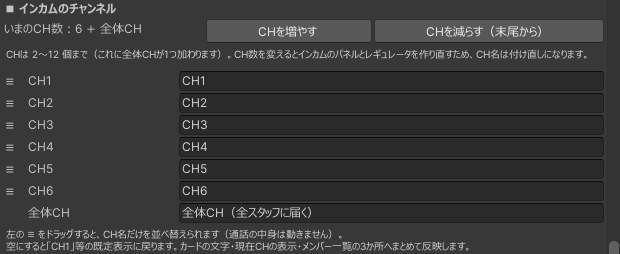
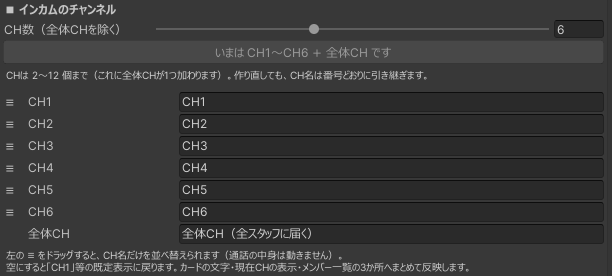
Staff Bridge System: 表記をUnity用語に合わせ、防音エリアの仕様を訂正する
製品UIに合わせて「配線→参照」「常時アクティブなオブジェクト→常に Active な
GameObject」「Sceneで選ぶ→Hierarchyで選択」等を書き換えた。

防音エリアの「中に居る人どうしは距離に関係なく聞こえる」は誤り。中どうしは
声の設定を書き換えないだけで、VRChat の既定の距離減衰は残る。あわせて編集
タブの下書き方式・CHカードのスクロール・CH名の引き継ぎを追記した。

diff --git a/docs/staff-bridge-system/howto.md b/docs/staff-bridge-system/howto.md
@@ -17,12 +17,19 @@
 | テレポート先の編集 | 行き先の差し替え・名前付け・件数の増減 |
 | プリセットメッセージ編集 | 定型文の追加・並べ替え・色付け・カテゴリ分け |
 | メニューの見た目（テーマ） | 配色テーマの選択、カスタム色、フォント、生成済みメニューへの再着色 |
-| インカムのチャンネル | 各チャンネルの表示名 |
-| 防音エリア | エリア名、聞こえる距離／聞こえなくなる距離、範囲の選択 |
+| インカムのチャンネル | CH数（2〜12）の変更、各チャンネルの表示名 |
+| 防音エリア | エリア名、外へ届く距離、BoxCollider との連動 |
 | インカムの一時停止 | 音声ギミックと同居させる回だけ、無線や音声制御を止める |
 | 既定値 | メガホンの長押し秒・最大使用秒、無線の最大送信秒、通知音の初期音量 |
 | DTキー発話の候補 | 設定タブに並ぶキー4枠の差し替え |
 | 名簿 | 最初からスタッフにしておく人の編集、`.asset` への書き出し／読み込み |
+
+!!! info "いつシーンに反映されるか"
+    「編集」タブの入力は**下書き**です。タブ上部に固定されているバーの **変更を反映** を押すまで、シーンは変わりません。下書きが入っている欄には `*` が付き、バーに件数が出ます。
+
+    反映は `Ctrl+Z` 一回でまとめて取り消せます。反映したあと、シーンの保存（`Ctrl+S`）とワールドの再アップロードは別途必要です。
+
+    作り直しを伴うもの（CH数の変更、テーマの再着色、テレポート先とプリセットの編集窓）は下書きにできないため、それぞれのボタンで即時に実行されます。
 
 ## メニューの出かた・見た目
 
@@ -77,11 +84,11 @@
 | メガホンの起動を重く／軽くしたい | 編集タブ ＞ 既定値 ＞ **メガホンの長押し秒**（既定 0.5） |
 | メガホンの使いすぎを止めたい | 編集タブ ＞ 既定値 ＞ **メガホンの最大使用秒**（既定 180） |
 | 来場者を含む全員に呼びかけたい | メニューのメガホンボタンを長押し → [メガホン](usage.md#megaphone) |
-| 会話が外に漏れない部屋を作りたい | セットアップタブ ＞ 単品ギミック ＞ **防音エリア**。追加後 BoxCollider を部屋に合わせる → [防音エリア](usage.md#area-voice) |
-| 遮る範囲を調整したい | 編集タブ ＞ 防音エリア ＞ **全音量で聞こえる距離／聞こえなくなる距離**。部屋の対角より少し大きめが目安 |
+| 会話が外に漏れない部屋を作りたい | セットアップタブ ＞ Prefab を1つずつ置く ＞ **防音エリア**。追加後 BoxCollider を部屋に合わせる → [防音エリア](usage.md#area-voice) |
+| 遮る範囲を調整したい | 編集タブ ＞ 防音エリア ＞ **外へ全音量で届く距離／外へ届かなくなる距離**。BoxCollider の XZ 対角が目安（連動モードで自動計算もできます） |
 | 部屋が複数あるので同じ距離に揃えたい | 編集タブ ＞ 防音エリア ＞ **まとめて変える**（エリアが2つ以上あるときに出る） |
 | エリアに名前を付けたい | 編集タブ ＞ 防音エリア ＞ **エリア名**（Unity 上で見分けるための名前。ワールド内には出ない） |
-| エリアの範囲そのものを直したい | 編集タブ ＞ 防音エリア ＞ **Sceneで選ぶ** を押し、Scene ビューで緑の枠を部屋に合わせる |
+| エリアの範囲そのものを直したい | 編集タブ ＞ 防音エリア ＞ **Hierarchyで選択** を押し、Scene ビューで BoxCollider の Edit Collider ハンドルを部屋に合わせる |
 | エリアを消したい | 対象を選んで `Tools ＞ MGR ＞ Staff Bridge System ＞ 防音エリアを削除（選択中）` |
 
 メガホンと無線の既定値は、編集タブの同じ欄にまとまっています。
@@ -98,7 +105,7 @@
 |---|---|
 | 有効 | 通常。無線・メガホン・防音エリアがすべて動く |
 | インカムだけ無効 | 無線とメガホンを止める。防音エリアは動いたまま |
-| 音声制御ごと無効 | 声の書き換えそのものを止めて、他のギミックへ明け渡す。防音エリアも止まる |
+| PA Supervisor ごと無効 | 声の書き換えそのものを止めて、他のギミックへ明け渡す。防音エリアも止まる |
 
 テレポート・一斉メッセージ・スタッフ限定オブジェクトは音声を使わないため、どの状態でもそのまま使えます。
 
@@ -146,7 +153,7 @@
 |---|---|
 | 着信音の初期音量を決めたい | 編集タブ ＞ 既定値 ＞ **通知音の初期音量**（既定 0.5） |
 | 各自で音量を絞りたい | メニューの[設定タブ](usage.md#settings)（操作音・通知音を別々に調整できる） |
-| スタッフ UI をカメラやミラーに映したくない | セットアップ時に自動設定されます。ミラーの反射対象は診断・修復タブで確認 |
+| スタッフ UI をカメラやミラーに映したくない | セットアップ時に自動設定されます。VRC_MirrorReflection の Reflect Layers は診断・修復タブで確認 |
 
 ## 公開前の確認
 

diff --git a/docs/staff-bridge-system/reference.md b/docs/staff-bridge-system/reference.md
@@ -57,7 +57,7 @@
 チャンネルの参加・離脱と発話を担当します。同じチャンネルのメンバーの発話だけが、距離に関係なく聞こえます。
 
 !!! warning "配置場所の制約"
-    メニュー配下ではなく、**常時アクティブなオブジェクト**に置く必要があります。メニューを閉じた状態でも発話できるようにするためです。誤って配置した場合は、このコンポーネントの Inspector に注意書きが表示されます。
+    メニュー配下ではなく、**常に Active な GameObject** の下に置く必要があります。メニューを閉じた状態でも発話できるようにするためです。誤って配置した場合は、このコンポーネントの Inspector に注意書きが表示されます。
 
 ![StaffIncomRadio のインスペクタ](images/inspector-incomradio.png)
 
@@ -115,7 +115,7 @@
 
 エリアの入退室を判定し、中の会話が外へ届く距離を絞ります。1エリアにつき1つ配置します。スタッフはエリアの中に居てもインカムをそのまま使えます。
 
-設置は「セットアップ」タブの単品ギミック **防音エリア** から行います。追加後、Scene ビューで BoxCollider を部屋の形に合わせてください。削除は対象を選んで **Tools ＞ MGR ＞ Staff Bridge System ＞ 防音エリアを削除（選択中）** から行います。
+設置は「セットアップ」タブの **Prefab を1つずつ置く** ＞ **防音エリア** から行います。追加後、Scene ビューで BoxCollider を部屋の形に合わせてください。削除は対象を選んで **Tools ＞ MGR ＞ Staff Bridge System ＞ 防音エリアを削除（選択中）** から行います。
 
 | 項目 | 型 | 既定 | 内容 |
 |---|---|---|---|
@@ -134,7 +134,7 @@
 定型文をスタッフへ一斉送信します。受信側は前面通知・通知音・履歴で受け取ります。サーバー時刻を見て、レイトジョイン時に古いメッセージが再表示されるのを防いでいます。
 
 !!! warning "配置場所の制約"
-    StaffIncomRadio と同じく、**常時アクティブなオブジェクト**に置く必要があります。
+    StaffIncomRadio と同じく、**常に Active な GameObject** の下に置く必要があります。
 
 ### 内容
 
@@ -169,7 +169,7 @@
 
 ### StaffSeVolume（効果音の音量）
 
-常時アクティブなオブジェクトに置きます。実音量は「既定音量 × スライダー値」です。
+常に Active な GameObject の下に置きます。実音量は「既定音量 × スライダー値」です。
 
 | 項目 | 型 | 既定 | 内容 |
 |---|---|---|---|

diff --git a/docs/staff-bridge-system/troubleshoot.md b/docs/staff-bridge-system/troubleshoot.md
@@ -1,7 +1,7 @@
 # トラブルシューティング
 
 !!! tip "まずは診断を実行してください"
-    **Tools ＞ MGR ＞ Staff Bridge System ＞ セットアップ ＞ 診断・修復** を開いて実行します。配線漏れ、必須オブジェクトの不足、前提パッケージの未導入など、よくある不具合の多くはここで検出でき、ボタンで修復できます。
+    **Tools ＞ MGR ＞ Staff Bridge System ＞ セットアップ ＞ 診断・修復** を開いて実行します。参照の設定漏れ、必須オブジェクトの不足、前提パッケージの未導入など、よくある不具合の多くはここで検出でき、ボタンで修復できます。
 
 ![診断・修復タブ](images/doctor-tab.png)
 
@@ -57,15 +57,15 @@
 
 ### 防音エリアの会話が外に漏れる
 
-エリアが遮るのは距離です。**「聞こえなくなる距離」より内側に立たれた場合は聞こえます。**「編集」タブの防音エリアで距離を小さくするか、部屋どうしをその距離より離して配置してください（[防音エリア](usage.md#area-voice)）。
+エリアが遮るのは距離です。**「外へ届かなくなる距離」より内側に立たれた場合は聞こえます。**「編集」タブの防音エリアで距離を小さくするか、部屋どうしをその距離より離して配置してください（[防音エリア](usage.md#area-voice)）。
 
 ---
 
 ## メニューを閉じるとインカムが使えない
 
-インカム本体が**常時アクティブなオブジェクト**に置かれていない可能性があります。メニュー配下に置くと、メニューを閉じた時点で動作が止まります。
+インカム本体が**常に Active な GameObject** の下に置かれていない可能性があります。メニュー配下に置くと、メニューを閉じた時点で動作が止まります。
 
-StaffIncomRadio を選択すると、Inspector に注意書きが出ます。その場合は、メニューの外にある常時アクティブなオブジェクトへ手動で移動してください。
+StaffIncomRadio を選択すると、Inspector に注意書きが出ます。その場合は、メニューの外にある常に Active な GameObject へ手動で移動してください。
 
 ---
 

diff --git a/docs/staff-bridge-system/customize.md b/docs/staff-bridge-system/customize.md
@@ -76,7 +76,7 @@
 
 ## 生成済みのメニューに適用する
 
-**「シーンのメニューへ適用（色とフォントのみ）」** を押すと、すでに配置してあるメニューを作り直さずに塗り替えます。テレポート先・配線・各種設定はそのまま保持されます。
+**「シーンのメニューへ適用（色とフォントのみ）」** を押すと、すでに配置してあるメニューを作り直さずに塗り替えます。テレポート先・参照・各種設定はそのまま保持されます。
 
 これから新しく生成する場合は、このボタンは不要です（選択中のテーマで生成されます）。
 

diff --git a/docs/staff-bridge-system/changelog.md b/docs/staff-bridge-system/changelog.md
@@ -15,7 +15,7 @@
 - 手元パネルにテレポート／一斉メッセージ／インカム操作を統合
 - メンバー一覧・メッセージログの各ページ
 - 配色テーマ11種＋カスタム（役割色12色を個別編集）、フォント差し替え
-- 生成済みメニューへの再着色（行き先・配線は保持）
+- 生成済みメニューへの再着色（行き先・参照は保持）
 
 **インカム（無線）**
 
